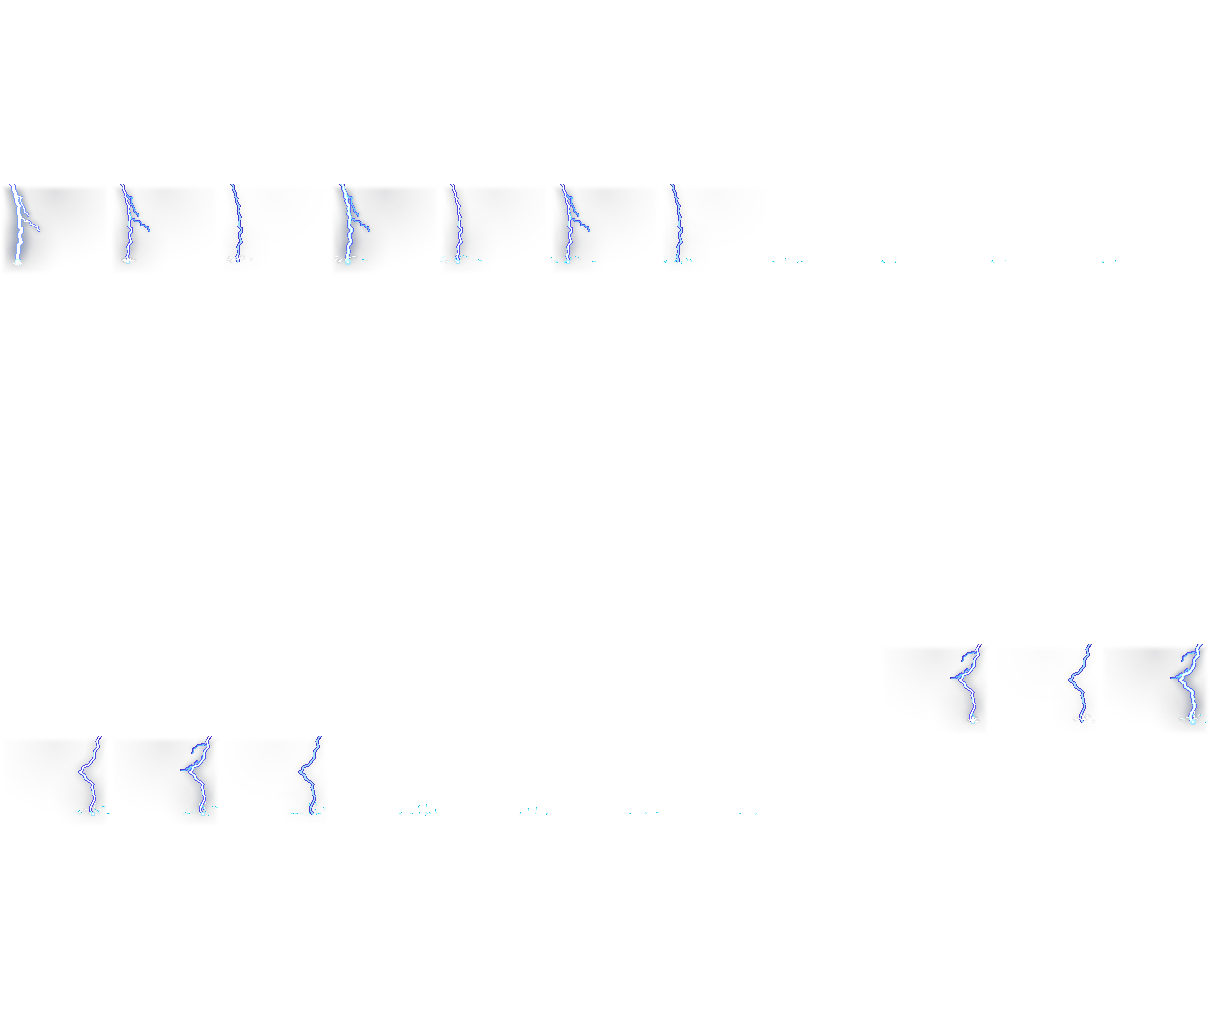
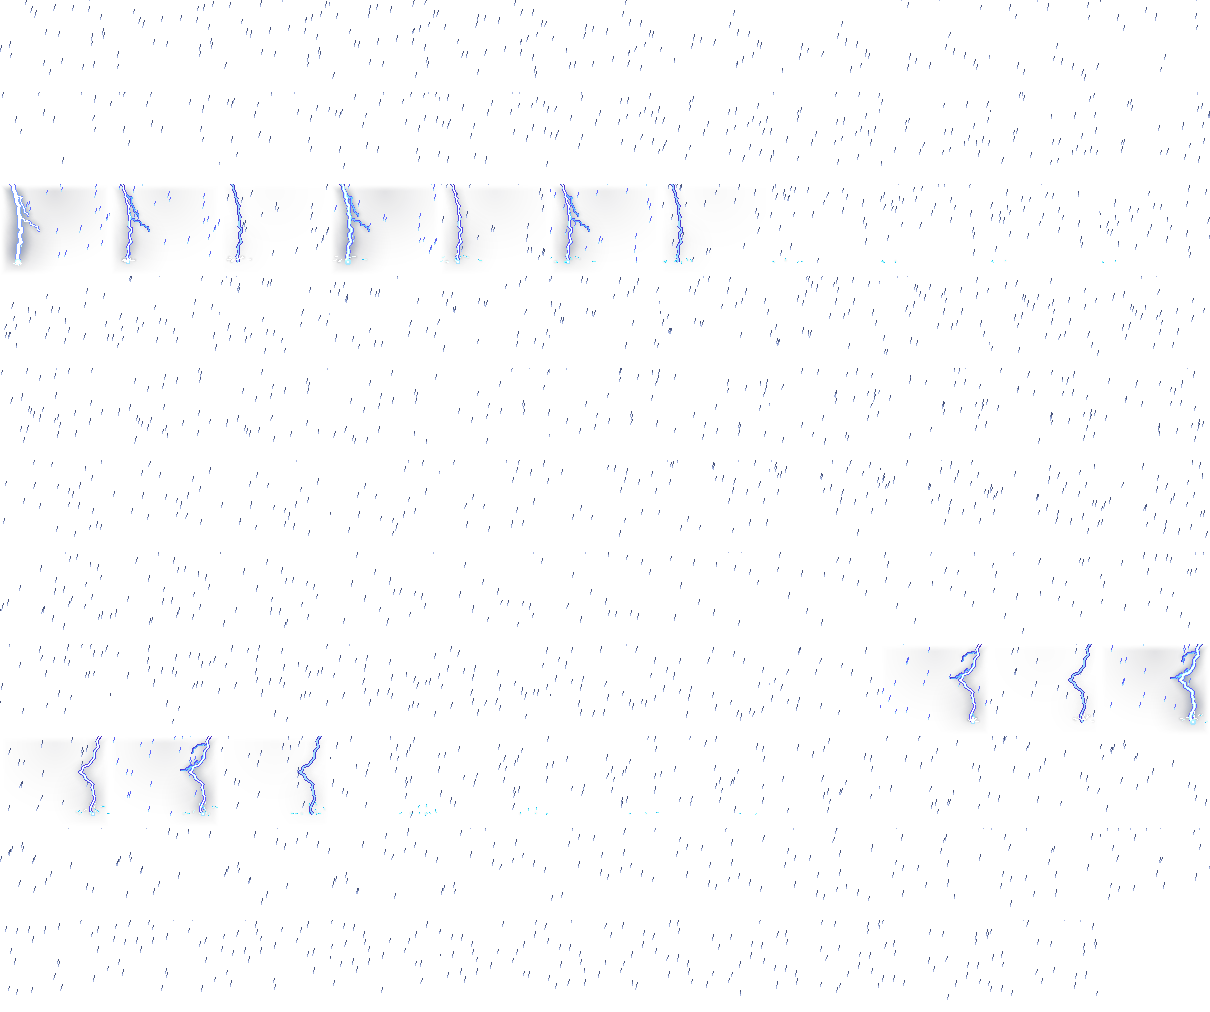
fix(cosmetics): 천둥번개 카드에 비 되살림 — 벡터 배경을 빼면서 비도 같이 사라졌다
- 벡터 배경이 비를 그리던 때라 픽셀 번개에서 비를 뺐는데, 배경을 픽셀로 바꾸며 비가 아예 없어졌다
- 비스듬한 픽셀 빗줄기를 번개 시트에 다시 넣고(번쩍일 때 밝아진다) 양을 늘렸다

diff --git a/scripts/pixelfx/cards/card-storm.js b/scripts/pixelfx/cards/card-storm.js
@@ -1,15 +1,15 @@
-// Nexus card "천둥번개": the card's painted backdrop already rains, so this is only the lightning: twice a loop a forked bolt cracks down one side of
+// Nexus card "천둥번개": slanting rain over the whole card, and twice a loop a forked bolt cracks down one side of
 // the portrait, flickering, lighting the sky and throwing sparks where it lands. Bolt shape and inking from
 // lightning/_lib (adapted from Sprite Fusion's open-source lightning, https://www.spritefusion.com/pixel-art-vfx/lightning,
 // MIT License, Copyright (c) 2026 Hugo Duprez).
-import { fit, rng, WHITE, hex } from "../../core/index.js";
+import { fit, rng, cycle, WHITE, hex } from "../../core/index.js";
 import { VOLT, PLASMA, zigzag, stroke, flight, spark } from "../lightning/_lib.js";
 import { CARD } from "./_card.js";
 
 export const meta = {
-  name: "Card: storm", desc: "Twice a loop a forked bolt cracks down one side of the portrait.",
+  name: "Card: storm", desc: "Rain slants down the card; twice a loop a forked bolt cracks down one side of the portrait.",
   tags: ["card", "lightning", "storm", "rain", "loop"], ...CARD, duration: 6, loop: true, fps: 20, bg: "dark",
-  options: { palette: VOLT, sparks: PLASMA, seed: 8 },
+  options: { palette: VOLT, sparks: PLASMA, rain: ["#2b3250", "#46527a", "#6d7cab", "#a5b5e0"], seed: 8 },
 };
 
 const [W, H] = CARD.size, FLOOR = 78, D = meta.duration;
@@ -19,9 +19,17 @@ const BOLTS = [[1.1, 10, 18], [4.2, 102, 93]];
 const BK = [1, 0.55, 0.15, 0.9, 0.45, 0.6, 0.2];
 
 export function draw(p, t, o) {
-  const C = fit(o.palette, 8), S = o.sparks.map(hex);
+  const C = fit(o.palette, 8), RN = fit(o.rain, 4), S = o.sparks.map(hex);
   const steps = BOLTS.map(([bt]) => Math.floor((((t - bt) % D) + D) % D * 20 + 1e-6));
   const flash = BOLTS.reduce((m, _, i) => Math.max(m, BK[steps[i]] ?? 0), 0);
+
+  // rain slanting from above the card to the ground line, lit when the sky flashes
+  cycle(t, D, 420, o.seed + 11, (g) => g.range(0.38, 0.5), (age, life, r) => {
+    const vy = r.range(190, 230), vx = -vy * 0.2, x0 = r.range(-4, W + 18), y = -6 + vy * age, x = x0 + vx * age;
+    if (y > FLOOR + r.range(-8, 4)) return;
+    const l = r.range(4, 6.5);
+    p.line(x - vx * 0.02 * (l / 4), y - l, x, y, (u) => (u > 0.7 ? (flash > 0.5 ? C[5] : RN[3]) : flash > 0.5 ? C[3] : RN[u > 0.35 ? 2 : 1]));
+  });
 
   // the sky lights up behind everything when a bolt strikes
   if (flash > 0.1) p.glow(W / 2, 8, 90, C[3], 0.28 * flash);
